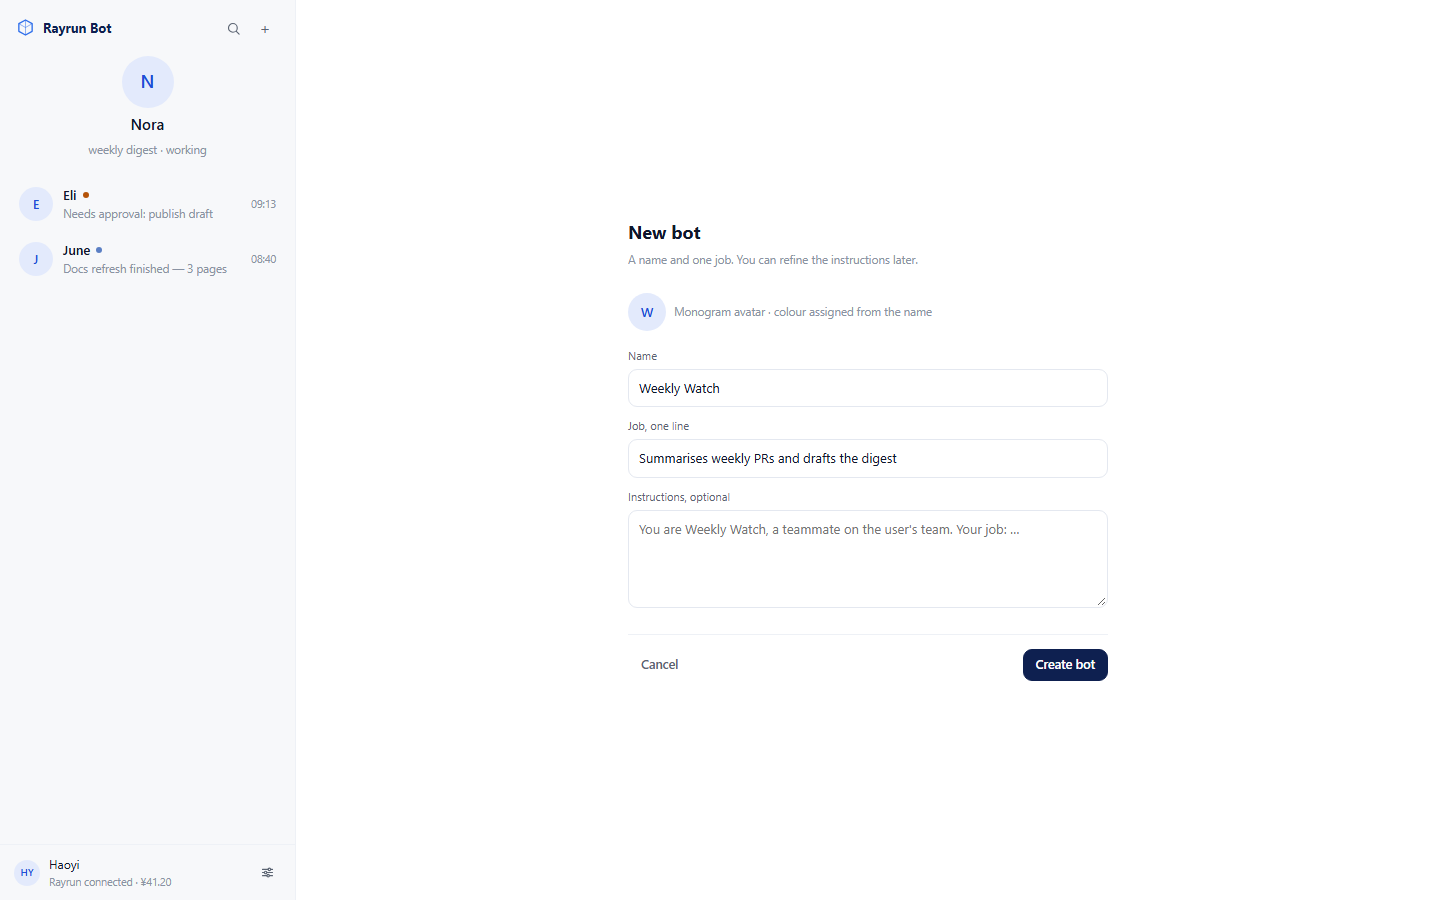
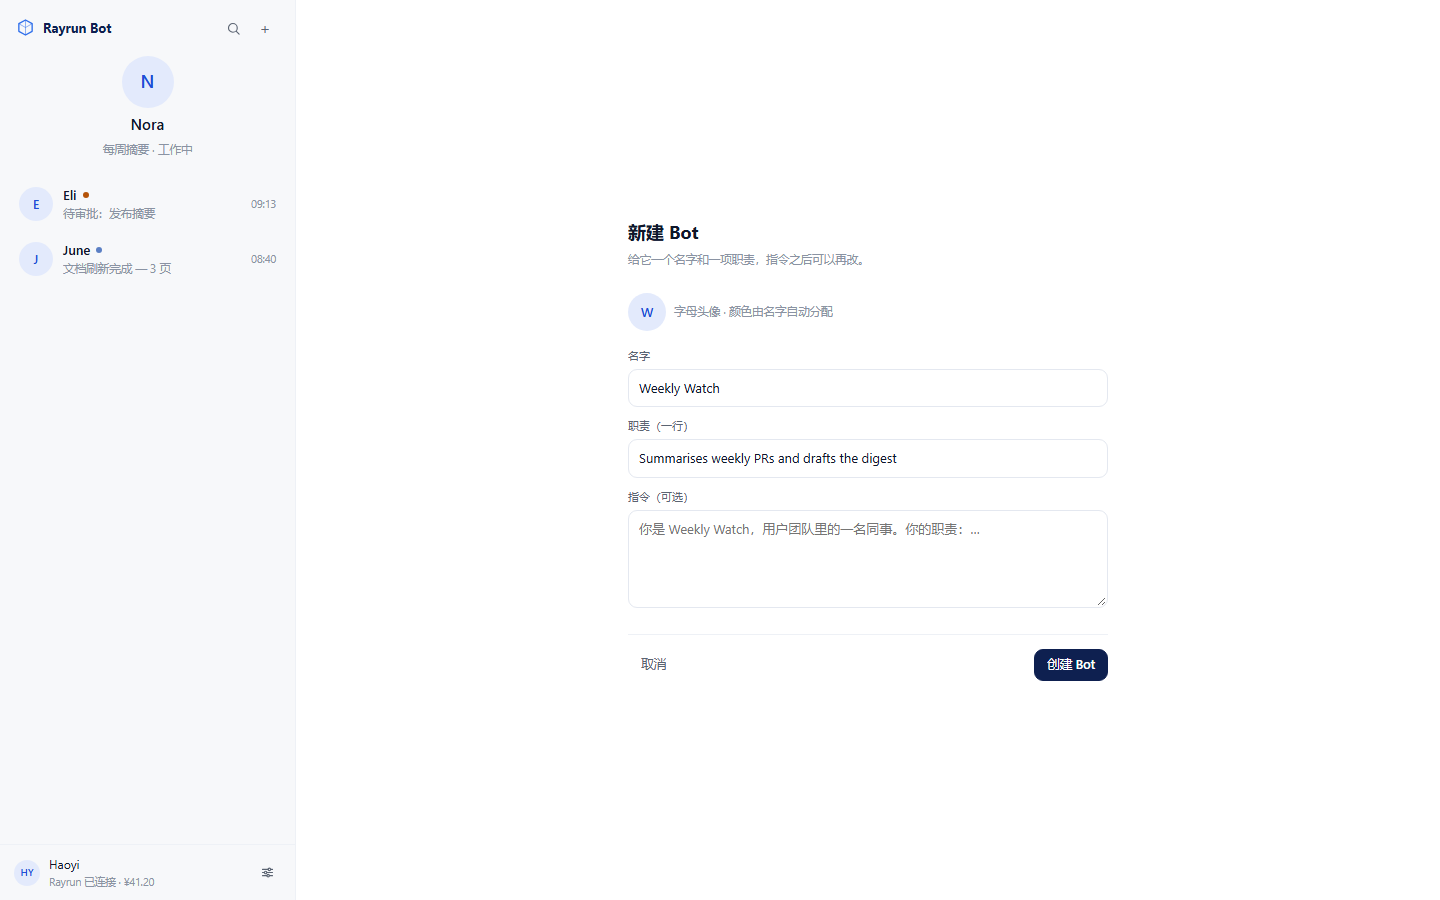
docs: render the UI mockups in Chinese

diff --git a/docs/mockups/index.html b/docs/mockups/index.html
@@ -191,26 +191,26 @@
     <div class="list-top">
       <div class="brand"><svg class="mark" width="19" height="19" viewBox="0 0 24 24" fill="none"><path d="M12 2.5 20.4 7.2v9.6L12 21.5 3.6 16.8V7.2Z" stroke="#2f6feb" stroke-width="1.7" stroke-linejoin="round"></path><path d="M12 2.5v19M3.6 7.2 12 12l8.4-4.8" stroke="#2f6feb" stroke-width="1.1" opacity=".6"></path></svg><span>Rayrun Bot</span></div>
       <div class="tools">
-        <button class="icon" title="Search"><svg width="15" height="15" viewBox="0 0 24 24" fill="none" stroke="currentColor" stroke-width="1.8" stroke-linecap="round"><circle cx="11" cy="11" r="7"></circle><path d="m16.5 16.5 4.5 4.5"></path></svg></button>
-        <button class="icon" data-go="newbot" title="New bot">+</button>
+        <button class="icon" title="搜索"><svg width="15" height="15" viewBox="0 0 24 24" fill="none" stroke="currentColor" stroke-width="1.8" stroke-linecap="round"><circle cx="11" cy="11" r="7"></circle><path d="m16.5 16.5 4.5 4.5"></path></svg></button>
+        <button class="icon" data-go="newbot" title="新建 Bot">+</button>
       </div>
     </div>
 
     <div class="current">
       <div class="avatar big">N</div>
       <div class="name">Nora</div>
-      <div class="label">weekly digest · working</div>
+      <div class="label">每周摘要 · 工作中</div>
     </div>
 
     <div class="chats">
       <button class="chatrow" data-go="chat">
         <div class="avatar mid">E</div>
-        <div><div class="nm">Eli <span class="dot needs" title="needs attention"></span></div><div class="sn">Needs approval: publish draft</div></div>
+        <div><div class="nm">Eli <span class="dot needs" title="needs attention"></span></div><div class="sn">待审批：发布摘要</div></div>
         <div class="tm">09:13</div>
       </button>
       <button class="chatrow" data-go="chat">
         <div class="avatar mid">J</div>
-        <div><div class="nm">June <span class="dot unread" title="unread"></span></div><div class="sn">Docs refresh finished — 3 pages</div></div>
+        <div><div class="nm">June <span class="dot unread" title="unread"></span></div><div class="sn">文档刷新完成 — 3 页</div></div>
         <div class="tm">08:40</div>
       </button>
 
@@ -218,65 +218,65 @@
 
     <div class="list-foot">
       <div class="avatar sm">HY</div>
-      <div class="who">Haoyi<small>Rayrun connected · ¥41.20</small></div>
-      <button class="icon" data-go="settings" title="Settings"><svg width="15" height="15" viewBox="0 0 24 24" fill="none" stroke="currentColor" stroke-width="1.8" stroke-linecap="round"><path d="M4 7h9M18 7h2M4 12h3M11 12h9M4 17h7M15 17h5"></path><circle cx="15" cy="7" r="2"></circle><circle cx="9" cy="12" r="2"></circle><circle cx="13" cy="17" r="2"></circle></svg></button>
+      <div class="who">Haoyi<small>Rayrun 已连接 · ¥41.20</small></div>
+      <button class="icon" data-go="settings" title="设置"><svg width="15" height="15" viewBox="0 0 24 24" fill="none" stroke="currentColor" stroke-width="1.8" stroke-linecap="round"><path d="M4 7h9M18 7h2M4 12h3M11 12h9M4 17h7M15 17h5"></path><circle cx="15" cy="7" r="2"></circle><circle cx="9" cy="12" r="2"></circle><circle cx="13" cy="17" r="2"></circle></svg></button>
     </div>
   </aside>
 
   <!-- ============ chat ============ -->
   <main class="main" data-screen="chat">
     <div class="thread">
-      <div class="msg user"><div class="bubble">Summarise last week's PRs and draft the digest. Publish it when I say so.</div></div>
+      <div class="msg user"><div class="bubble">总结上周的 PR，并起草每周摘要。发布前等我确认。</div></div>
 
-      <div class="day">Today 20:07</div>
+      <div class="day">今天 20:07</div>
 
       <div class="msg">
         <div class="avatar sm" style="margin-top:2px">N</div>
         <div class="body">
-          <div class="who"><b>Nora</b><span>weekly digest</span></div>
-          <p>The draft is ready. I kept it to five sections and linked each item back to its PR.</p>
+          <div class="who"><b>Nora</b><span>每周摘要</span></div>
+          <p>草稿好了。我控制在五个小节，每一项都链回了对应 PR。</p>
           <ul>
-            <li><strong>Scope.</strong> 14 merged PRs, 2 still open, 1 reverted.</li>
-            <li><strong>Draft.</strong> <code>week-45-digest.md</code> in the workspace, 420 words.</li>
-            <li><strong>Next.</strong> Publishing to <code>#weekly</code> needs your approval.</li>
+            <li><strong>范围。</strong>14 个已合并 PR，2 个仍开着，1 个已回滚。</li>
+            <li><strong>草稿。</strong>工作区里的 <code>week-45-digest.md</code>，420 字。</li>
+            <li><strong>下一步。</strong>发布到 <code>#weekly</code> 需要你批准。</li>
           </ul>
         </div>
       </div>
 
       <div class="computer-act">
         <div class="thumb"></div>
-        <div><div class="t">On the computer · Feishu #weekly</div><div class="s">pasted the digest, waiting for your approval</div></div>
-        <button class="btn ghost">View</button>
+        <div><div class="t">电脑上 · Feishu #weekly</div><div class="s">已粘贴摘要，等待你的审批</div></div>
+        <button class="btn ghost">查看</button>
       </div>
 
       <div class="card">
         <div class="top">
-          <span class="title"><span class="warn">⚠</span>Publish “Week 45 digest” to Feishu #weekly</span>
-          <span class="m">waits for you</span>
+          <span class="title"><span class="warn">⚠</span>发布《Week 45 摘要》到 Feishu #weekly</span>
+          <span class="m">等你处理</span>
         </div>
-        <div class="warnline">This shares data outside your computer. This can't be undone.</div>
-        <div class="meta">requested 20:07 · from this chat</div>
+        <div class="warnline">这会把数据发到你的电脑之外，且无法撤销。</div>
+        <div class="meta">请求于 20:07 · 来自本对话</div>
         <div class="actions">
-          <button class="btn ghost">Deny</button>
-          <button class="btn primary">Allow once</button>
+          <button class="btn ghost">拒绝</button>
+          <button class="btn primary">仅批准这一次</button>
         </div>
       </div>
 
       <div class="msg">
         <div class="avatar sm" style="margin-top:2px">N</div>
         <div class="body">
-          <div class="who"><b>Nora</b><span>weekly digest</span></div>
-          <p>If you'd rather review the draft first, it's in the Library tab. I'll hold until you answer.</p>
+          <div class="who"><b>Nora</b><span>每周摘要</span></div>
+          <p>如果你想先看草稿，它在「资料库」标签里。我会等你答复。</p>
         </div>
       </div>
     </div>
 
-    <div class="notice"><span class="dot needs"></span>Computer reconnecting… retrying in 5s</div>
+    <div class="notice"><span class="dot needs"></span>电脑正在重连… 5 秒后重试</div>
 
     <div class="composer">
-      <button class="icon" title="Attach a file">+</button>
-      <input placeholder="Message Nora…">
-      <button class="send" title="Send">↑</button>
+      <button class="icon" title="添加附件">+</button>
+      <input placeholder="给 Nora 发消息…">
+      <button class="send" title="发送">↑</button>
     </div>
   </main>
 
@@ -285,95 +285,95 @@
     <div class="profile">
       <div class="avatar big">N</div>
       <div class="name">Nora</div>
-      <div class="sub">weekly digest · dsh-workspace</div>
+      <div class="sub">每周摘要 · dsh-workspace</div>
     </div>
 
     <div class="tabs">
-      <button class="tab active" data-tab="activity">Activity</button>
-      <button class="tab" data-tab="library">Library</button>
+      <button class="tab active" data-tab="activity">动态</button>
+      <button class="tab" data-tab="library">资料库</button>
     </div>
 
     <div class="sections" data-panel="activity">
       <div class="sec">
-        <h3>Recent</h3>
+        <h3>最近</h3>
         <div class="act">
-          <div class="t"><span>Draft weekly digest</span><span class="ok">ready</span></div>
-          <div class="s">09:13 · 3 artifacts · ¥3.10 today</div>
+          <div class="t"><span>起草每周摘要</span><span class="ok">已就绪</span></div>
+          <div class="s">09:13 · 3 个产物 · 今日 ¥3.10</div>
         </div>
         <div class="act">
-          <div class="t"><span>Publish to #weekly</span><span class="ok">waiting</span></div>
-          <div class="s">needs your approval · waits for you</div>
+          <div class="t"><span>发布到 #weekly</span><span class="ok">等待中</span></div>
+          <div class="s">需要你的审批 · 等你处理</div>
         </div>
         <div class="act">
-          <div class="t"><span>Docs refresh</span><span class="ok">done</span></div>
-          <div class="s">08:40 · 3 pages · ¥0.60 today</div>
+          <div class="t"><span>文档刷新</span><span class="ok">已完成</span></div>
+          <div class="s">08:40 · 3 页 · 今日 ¥0.60</div>
         </div>
       </div>
 
       <div class="sec">
-        <h3>Upcoming</h3>
+        <h3>即将进行</h3>
         <div class="routine">
-          <div><div class="t">Weekly digest</div><div class="s">Friday · 09:00</div></div>
-          <button class="toggle on" aria-label="Weekly digest on"></button>
+          <div><div class="t">每周摘要</div><div class="s">周五 · 09:00</div></div>
+          <button class="toggle on" aria-label="每周摘要 开"></button>
         </div>
         <div class="routine">
-          <div><div class="t">Inbox sweep</div><div class="s">Weekdays · 08:00</div></div>
-          <button class="toggle on" aria-label="Inbox sweep on"></button>
+          <div><div class="t">收件箱清扫</div><div class="s">工作日 · 08:00</div></div>
+          <button class="toggle on" aria-label="收件箱清扫 开"></button>
         </div>
         <div class="routine">
-          <div><div class="t">Standup notes</div><div class="s">Weekdays · 18:00</div></div>
-          <button class="toggle" aria-label="Standup notes off"></button>
+          <div><div class="t">站会纪要</div><div class="s">工作日 · 18:00</div></div>
+          <button class="toggle" aria-label="站会纪要 关"></button>
         </div>
       </div>
 
 
       <div class="sec">
-        <h3>Computer</h3>
+        <h3>电脑</h3>
         <div class="computer">
           <div class="row">
-            <div><div class="nm">dsh-workspace</div><div class="st">reconnecting…</div></div>
+            <div><div class="nm">dsh-workspace</div><div class="st">正在重连…</div></div>
             <div class="thumb"></div>
           </div>
           <div class="acts compacts">
-            <button class="btn">Open</button>
-            <button class="btn">Take over</button>
+            <button class="btn">打开</button>
+            <button class="btn">接管</button>
           </div>
         </div>
       </div>
 
       <div class="sec">
-        <h3>Usage</h3>
+        <h3>用量</h3>
         <div class="usage">
-          <span>balance <b>¥41.20</b> · 38.4 machine-hours</span>
-          <span>this week <b>¥6.80</b> · idle stop 15 min</span>
+          <span>余额 <b>¥41.20</b> · 38.4 机时</span>
+          <span>本周 <b>¥6.80</b> · 空闲停机 15 分钟</span>
         </div>
       </div>
     </div>
 
     <div class="sections hidden" data-panel="library">
       <div class="sec">
-        <h3>Today</h3>
+        <h3>今天</h3>
         <div class="act">
-          <div class="t"><span>week-45-digest.md</span><span class="ok">420 words</span></div>
-          <div class="s">created by Nora · 09:13</div>
+          <div class="t"><span>week-45-digest.md</span><span class="ok">420 字</span></div>
+          <div class="s">由 Nora 创建 · 09:13</div>
         </div>
         <div class="act">
-          <div class="t"><span>channel-preview.png</span><span class="ok">image</span></div>
-          <div class="s">sent in this conversation · 09:12</div>
-        </div>
-      </div>
-      <div class="sec">
-        <h3>This week</h3>
-        <div class="act">
-          <div class="t"><span>week-44-digest.md</span><span class="ok">done</span></div>
-          <div class="s">created by Nora · Mon</div>
+          <div class="t"><span>channel-preview.png</span><span class="ok">图片</span></div>
+          <div class="s">本对话中发送 · 09:12</div>
         </div>
       </div>
       <div class="sec">
-        <h3>Older</h3>
+        <h3>本周</h3>
         <div class="act">
-          <div class="t"><span>Feishu channel</span><span class="ok">link</span></div>
-          <div class="s">last week</div>
+          <div class="t"><span>week-44-digest.md</span><span class="ok">已完成</span></div>
+          <div class="s">由 Nora 创建 · 周一</div>
+        </div>
+      </div>
+      <div class="sec">
+        <h3>更早</h3>
+        <div class="act">
+          <div class="t"><span>Feishu 频道</span><span class="ok">链接</span></div>
+          <div class="s">上周</div>
         </div>
       </div>
     </div>
@@ -383,20 +383,20 @@
   <main class="page hidden" data-screen="newbot">
     <div class="wizard-wrap">
       <div class="wizard">
-        <h1>New bot</h1>
-        <p class="sub">A name and one job. You can refine the instructions later.</p>
+        <h1>新建 Bot</h1>
+        <p class="sub">给它一个名字和一项职责，指令之后可以再改。</p>
         <div class="line" style="margin-bottom: 16px">
           <div class="avatar mid" style="width: 38px; height: 38px; font-size: 13px">W</div>
-          <div style="color: var(--faint); font-size: 11.5px">Monogram avatar · colour assigned from the name</div>
+          <div style="color: var(--faint); font-size: 11.5px">字母头像 · 颜色由名字自动分配</div>
         </div>
         <div style="display: grid; gap: 10px">
-          <label class="flabel">Name<input class="field" value="Weekly Watch"></label>
-          <label class="flabel">Job, one line<input class="field" value="Summarises weekly PRs and drafts the digest"></label>
-          <label class="flabel">Instructions, optional<textarea class="field area" rows="4" placeholder="You are Weekly Watch, a teammate on the user's team. Your job: …"></textarea></label>
+          <label class="flabel">名字<input class="field" value="Weekly Watch"></label>
+          <label class="flabel">职责（一行）<input class="field" value="Summarises weekly PRs and drafts the digest"></label>
+          <label class="flabel">指令（可选）<textarea class="field area" rows="4" placeholder="你是 Weekly Watch，用户团队里的一名同事。你的职责：…"></textarea></label>
         </div>
         <div class="foot">
-          <button class="btn ghost" data-go="chat">Cancel</button>
-          <button class="btn primary" data-go="chat">Create bot</button>
+          <button class="btn ghost" data-go="chat">取消</button>
+          <button class="btn primary" data-go="chat">创建 Bot</button>
         </div>
       </div>
     </div>
@@ -406,30 +406,30 @@
   <main class="page hidden" data-screen="setup">
     <div class="wizard-wrap">
       <div class="wizard">
-        <h1>Set up Rayrun Bot</h1>
-        <p class="sub">Four steps. Each shows what is missing and where to fix it.</p>
+        <h1>设置 Rayrun Bot</h1>
+        <p class="sub">四步。每一步都会显示还缺什么、去哪里补。</p>
         <div class="steps">
-          <div class="step done"><div class="bar"></div><div class="lbl">Dependency</div></div>
+          <div class="step done"><div class="bar"></div><div class="lbl">依赖</div></div>
           <div class="step current"><div class="bar"></div><div class="lbl">Rayrun</div></div>
           <div class="step"><div class="bar"></div><div class="lbl">DeepSeek key</div></div>
-          <div class="step"><div class="bar"></div><div class="lbl">First bot</div></div>
+          <div class="step"><div class="bar"></div><div class="lbl">第一个 Bot</div></div>
         </div>
-        <h2>Connect Rayrun</h2>
-        <p class="say">Rayrun supplies the cloud computers. Sign in with your own account; the token stays in the DSH vault.</p>
+        <h2>连接 Rayrun</h2>
+        <p class="say">云电脑由 Rayrun 提供。用你自己的账号登录，token 只存在 DSH 凭证库里。</p>
         <div class="line">
-          <button class="btn primary">Sign in with Rayrun</button>
-          <span style="color: var(--faint); font-size: 11px">not connected</span>
+          <button class="btn primary">用 Rayrun 登录</button>
+          <span style="color: var(--faint); font-size: 11px">未连接</span>
         </div>
         <div class="line" style="margin-top: 9px">
-          <input class="field" placeholder="…or paste a Rayrun API token">
-          <button class="btn">Connect</button>
+          <input class="field" placeholder="…或粘贴 Rayrun API token">
+          <button class="btn">连接</button>
         </div>
-        <div style="color: var(--faint); font-size: 11px; margin-top: 10px">account: — · balance: —</div>
+        <div style="color: var(--faint); font-size: 11px; margin-top: 10px">账号：— · 余额：—</div>
         <div class="foot">
-          <button class="btn ghost">Back</button>
+          <button class="btn ghost">返回</button>
           <div style="display: flex; gap: 7px">
-            <button class="btn ghost">Skip for now</button>
-            <button class="btn primary" disabled>Continue</button>
+            <button class="btn ghost">暂时跳过</button>
+            <button class="btn primary" disabled>继续</button>
           </div>
         </div>
       </div>
@@ -439,20 +439,20 @@
   <!-- ============ settings ============ -->
   <main class="page hidden" data-screen="settings">
     <div class="page-inner">
-      <h1>Settings</h1>
-      <p class="sub">Account, usage and the few knobs this plugin owns.</p>
+      <h1>设置</h1>
+      <p class="sub">账号、用量，以及这个插件自己的少量设置。</p>
       <div class="snav">
-        <button class="active">Account</button>
-        <button>Usage</button>
-        <button>Notifications</button>
-        <button>Appearance</button>
+        <button class="active">账号</button>
+        <button>用量</button>
+        <button>通知</button>
+        <button>外观</button>
       </div>
-      <div class="srow"><div class="l">Rayrun account<small>token in the DSH vault · host side only</small></div><span style="display:flex;align-items:center;gap:6px;color:var(--muted);font-size:11.5px"><span class="dot working"></span>connected</span></div>
-      <div class="srow"><div class="l">Cloud-computer plugin<small>dsh-rayrun-computer v1.0.0</small></div><span style="display:flex;align-items:center;gap:6px;color:var(--muted);font-size:11.5px"><span class="dot working"></span>ok</span></div>
-      <div class="srow"><div class="l">Idle stop<small>Stop an idle computer. Never destroys it.</small></div><select><option>15 minutes</option><option>30 minutes</option><option>Off</option></select></div>
-      <div class="srow"><div class="l">Low-balance warning<small>Show a notice under this balance.</small></div><input value="10" style="width: 76px"></div>
-      <div class="srow"><div class="l">Notifications<small>Notify when a bot finishes or waits for you.</small></div><button class="toggle on" aria-label="Notifications on"></button></div>
-      <div class="srow"><div class="l">Language<small>English or 简体中文</small></div><select><option>English</option><option>简体中文</option></select></div>
+      <div class="srow"><div class="l">Rayrun 账号<small>token 存在 DSH 凭证库 · 只在 Host 侧</small></div><span style="display:flex;align-items:center;gap:6px;color:var(--muted);font-size:11.5px"><span class="dot working"></span>已连接</span></div>
+      <div class="srow"><div class="l">云电脑插件<small>dsh-rayrun-computer v1.0.0</small></div><span style="display:flex;align-items:center;gap:6px;color:var(--muted);font-size:11.5px"><span class="dot working"></span>正常</span></div>
+      <div class="srow"><div class="l">空闲停机<small>空闲时停止电脑，绝不销毁。</small></div><select><option>15 分钟</option><option>30 分钟</option><option>关闭</option></select></div>
+      <div class="srow"><div class="l">低余额提醒<small>余额低于该值时显示提示。</small></div><input value="10" style="width: 76px"></div>
+      <div class="srow"><div class="l">通知<small>Bot 完成或等你处理时通知。</small></div><button class="toggle on" aria-label="通知 开"></button></div>
+      <div class="srow"><div class="l">语言<small>English 或 简体中文</small></div><select><option>English</option><option>简体中文</option></select></div>
     </div>
   </main>
 </div>

diff --git a/docs/ui-design.md b/docs/ui-design.md
@@ -6,7 +6,7 @@ markdown conversation in the middle, a per-bot details panel on the right — in
 the visual language of rayrunos.com: white canvas, navy primary buttons, blue accents, hairline borders. Approvals are inline cards, not a separate
 inbox. The clickable reference is [`docs/mockups/index.html`](mockups/index.html);
 append `#library`, `#newbot`, `#setup` or `#settings` to the URL for the other
-screens. Related: [client-plan.md](client-plan.md) (surfaces, RPC),
+screens. The mockups render the **zh-CN** locale; English copy in §5 is the source and ships alongside (`locale/en.json`, `locale/zh.json`); the default language follows DSH. Related: [client-plan.md](client-plan.md) (surfaces, RPC),
 [mvp-plan.md](mvp-plan.md) (approval semantics), [bot-persona.md](bot-persona.md)
 (names, voice), [local-file-design.md](local-file-design.md) (state).*
 
